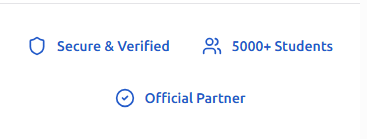
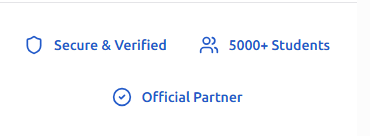
style(footer): make trust badges single row on mobile

diff --git a/src/components/layout/footer.tsx b/src/components/layout/footer.tsx
@@ -216,12 +216,12 @@ export function Footer() {
 
       {/* Trust Badges Section */}
       <div className="border-t border-b">
-        <div className="max-w-7xl mx-auto px-6 py-8">
-          <div className="flex flex-wrap items-center justify-center gap-8 sm:gap-16">
+        <div className="max-w-7xl mx-auto px-4 sm:px-6 py-6 sm:py-8">
+          <div className="flex flex-nowrap items-center justify-center gap-3 sm:gap-8 md:gap-16 overflow-x-auto">
             {trustBadges.map((badge, index) => (
-              <div key={index} className="flex items-center gap-2.5 text-primary">
-                <badge.icon className="h-5 w-5" />
-                <span className="text-sm font-medium">{badge.text}</span>
+              <div key={index} className="flex items-center gap-1.5 sm:gap-2.5 text-primary shrink-0">
+                <badge.icon className="h-4 w-4 sm:h-5 sm:w-5" />
+                <span className="text-xs sm:text-sm font-medium whitespace-nowrap">{badge.text}</span>
               </div>
             ))}
           </div>
